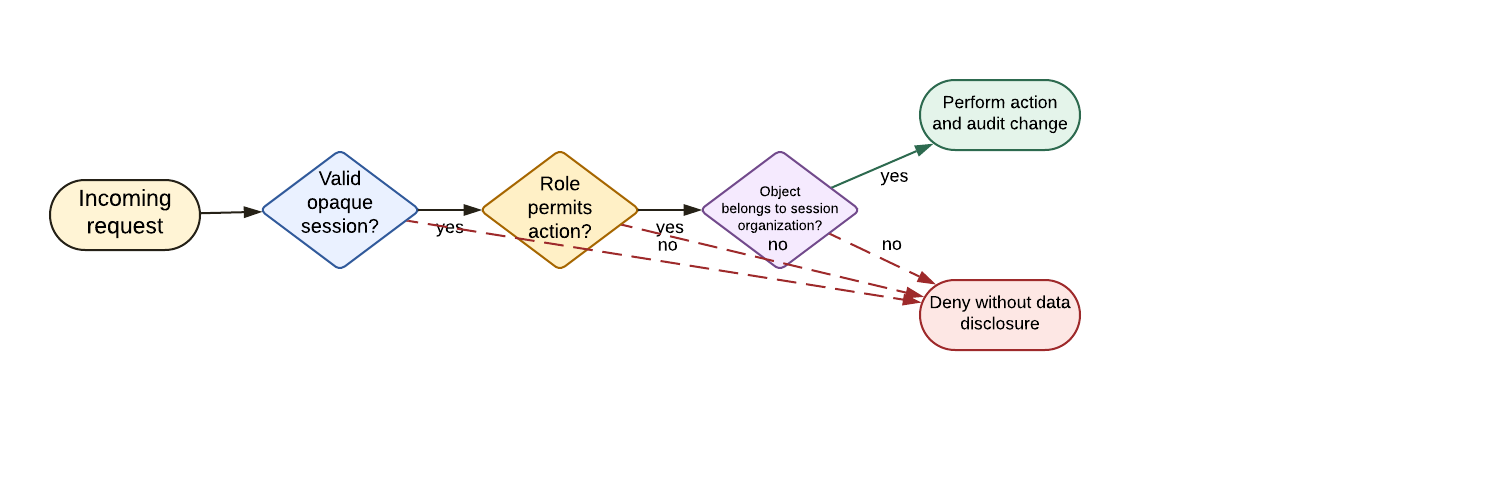
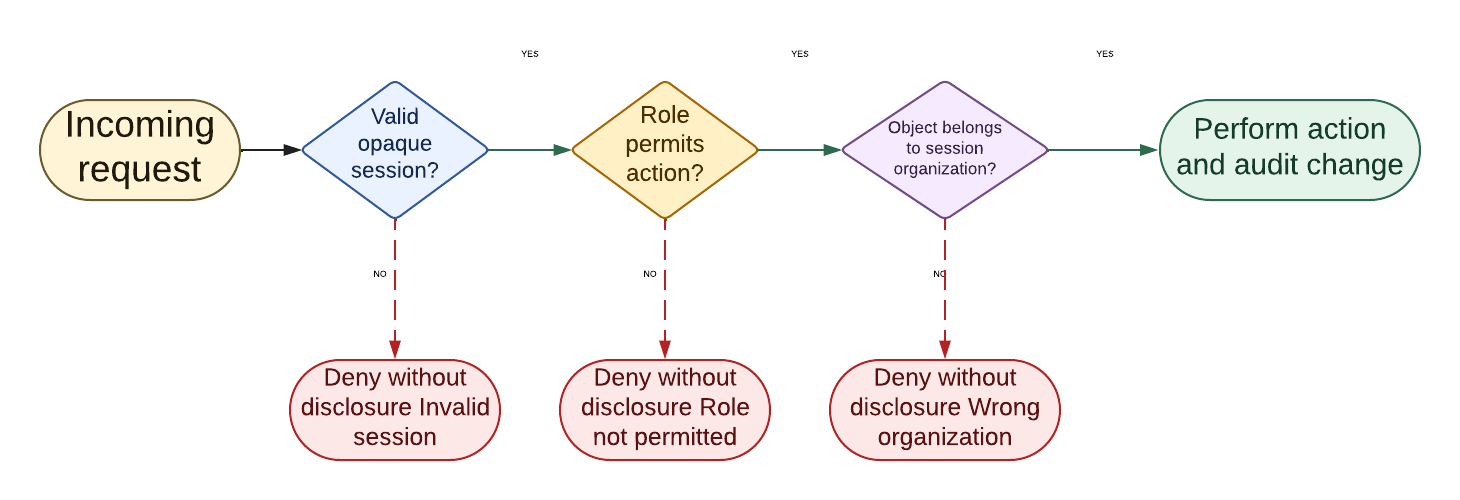
docs: complete Lucid diagram polish

diff --git a/docs/diagrams/README.md b/docs/diagrams/README.md
@@ -25,12 +25,12 @@ identifier are never stored in the public repository.
 | Safe update lifecycle | `684a4da4-37d9-4dd7-ae89-11bd97557b82` | `../../assets/graphics/architecture/safe-update-lifecycle.png` | Current |
 | Repository and domain boundaries | `5abe71fa-b4ac-498f-84da-bf129ed08a20`, page 1 | `../../assets/graphics/architecture/repository-domain-boundaries.png` | Current |
 | Research, ADR, and implementation flow | `5abe71fa-b4ac-498f-84da-bf129ed08a20`, page 2 | `../../assets/graphics/architecture/research-adr-implementation-flow.png` | Current |
-| Components and network trust boundaries | `72787958-9344-4a71-af56-98a216b35aa1`, page 1 | `../../assets/graphics/architecture/components-network-trust.png` | Current; source filed; connector-label collision requires polish |
-| Authorization boundaries | `72787958-9344-4a71-af56-98a216b35aa1`, page 2 | `../../assets/graphics/architecture/authorization-boundaries.png` | Current; source filed; decision labels require polish |
+| Components and network trust boundaries | `f22ae65e-c353-488e-ba54-51f7de4c189c`, page 1 | `../../assets/graphics/architecture/components-network-trust.png` | Current; source filed; visual review passed |
+| Authorization boundaries | `97b127d3-5a52-4232-bf90-99e59966d987`, page 1 | `../../assets/graphics/architecture/authorization-boundaries.png` | Current; source filed; visual review passed |
 | Media lifecycle, backup, and restore | `72787958-9344-4a71-af56-98a216b35aa1`, page 3 | `../../assets/graphics/architecture/media-backup-restore.png` | Current; source filed; visual review passed |
 | Scout Bee executor | `72787958-9344-4a71-af56-98a216b35aa1`, page 4 | `../../assets/graphics/architecture/scout-bee-executor.png` | Current; source filed; visual review passed |
 | CI/CD and release promotion | `72787958-9344-4a71-af56-98a216b35aa1`, page 5 | `../../assets/graphics/architecture/cicd-release-promotion.png` | Current; source filed; visual review passed |
-| Update, rollback, and recovery | `72787958-9344-4a71-af56-98a216b35aa1`, page 6 | `../../assets/graphics/architecture/update-rollback-recovery.png` | Current; source filed; pending-work labels require polish |
+| Update, rollback, and recovery | `f22ae65e-c353-488e-ba54-51f7de4c189c`, page 2 | `../../assets/graphics/architecture/update-rollback-recovery.png` | Current; source filed; visual review passed |
 | Primary MVP user journeys | `72787958-9344-4a71-af56-98a216b35aa1`, page 7 | `../../assets/graphics/architecture/primary-user-journeys.png` | Current; source filed; visual review passed |
 
 Legacy Mermaid sources remain only as migration history and are not authoritative.
@@ -41,18 +41,12 @@ accessible descriptions of the seven-page operational diagram set.
 
 The 2026-07-15 final-polish review confirmed a clear left-to-right reading order,
 consistent role colors, readable terminal states, and adequate export resolution on
-all seven operational pages. Three pages still require source edits before release:
-
-- Components and network trust: separate the API-to-data connector labels from the
-  API shape and from each other.
-- Authorization boundaries: move the three `yes` and `no` labels onto their own
-  decision branches so they do not overlap the decision shapes or adjacent paths.
-- Update, rollback, and recovery: separate the pending-work branch label from the
-  opening state and decision text.
-
-The other four pages passed this visual review. Source placement is no longer open:
-the operational document was verified in and, where necessary, moved into the
-dedicated `ApiaryLens` folder without changing its cataloged document ID.
+all seven operational pages. It initially found connector-label collisions on the
+components, authorization, and update/recovery pages. Those pages were rebuilt as
+editable Lucid sources, filed in the dedicated `ApiaryLens` folder, exported through
+the official Lucid API, and visually rechecked before their PNGs were promoted. The
+four unchanged pages also passed. Rejected draft documents were labeled and moved out
+of the authoritative folder so the catalog has no ambiguous final source.
 
 ## Publishing Rules
 

diff --git a/docs/testing/mvp-release-gates.md b/docs/testing/mvp-release-gates.md
@@ -42,9 +42,9 @@
 - [x] All cataloged editable Lucidchart sources are filed in the dedicated ApiaryLens
       Lucid folder; the seven-page operational source was verified and moved there on
       2026-07-15 without changing its document ID.
-- [ ] Complete the final Lucidchart visual-polish review by removing the recorded
-      label and connector collisions from three operational pages and refreshing
-      their repository exports.
+- [x] Final Lucidchart visual-polish review passes after the three pages with recorded
+      label and connector collisions were rebuilt, filed, re-exported, and visually
+      rechecked; rejected drafts are outside the authoritative folder.
 - [ ] Hyper-V and isolated Cloudflare UAT targets pass Scout Bee preflight.
 - [x] The isolated Cloudflare family service passes protected bootstrap, roles, all
       P0 resource types, private media, sync, conflict/idempotency, negative viewer

diff --git a/docs/diagrams/operational-architecture.md b/docs/diagrams/operational-architecture.md
@@ -1,7 +1,10 @@
 # Operational Architecture and Journeys
 
-The editable source for this seven-page set is Lucidchart document
-`72787958-9344-4a71-af56-98a216b35aa1`. The descriptions below are the accessible
+The editable sources for this seven-page set are the cataloged Lucidchart documents
+in the dedicated `ApiaryLens` folder. Four pages remain in document
+`72787958-9344-4a71-af56-98a216b35aa1`; the final-polish component and update pages
+are in `f22ae65e-c353-488e-ba54-51f7de4c189c`, and authorization is in
+`97b127d3-5a52-4232-bf90-99e59966d987`. The descriptions below are the accessible
 text alternative and define the intended reading order.
 
 ## Components and Network Trust
